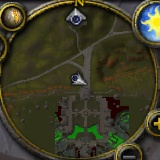
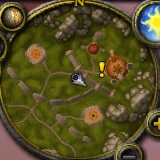
Add the automatic path finding function and save path function Optimised patrol function, from "move then run" to "move and run"...

diff --git a/move.py b/move.py
@@ -7,48 +7,53 @@ from utilities import get_delta_angle
 
 class Move:
     def __init__(self):
+        self.right_btn_is_pressed = False
         self.move_mouse_pos = (1000, 500)
         self.minimap = None
-        self.need_rotate = True
-        self.need_move = True
+        self.rotate_speed = 2
 
     def rotate_to(self):
-        if not self.need_rotate:
-            return
         self.minimap.get_target()
-        mouse.move(self.move_mouse_pos[0], self.move_mouse_pos[1])
-        mouse.press("right")
-        while True:
-            self.minimap.get_minimap()
-            self.minimap.get_orientation()
-            delta_angle = get_delta_angle(self.minimap.orientation, self.minimap.move_angle)
-            if delta_angle < 2:
+        self.minimap.get_minimap()
+        self.minimap.get_orientation()
+        delta_angle = get_delta_angle(self.minimap.orientation, self.minimap.move_angle)
+        if delta_angle < 2:
+            if self.right_btn_is_pressed:
                 mouse.release("right")
-                self.need_rotate = False
-                self.need_move = True
-                return
-            # time.sleep(1 / 120)
-            pos = mouse.get_position()
-            if self.minimap.orientation < 180 \
-                    and self.minimap.move_angle - self.minimap.orientation < 180 \
-                    and self.minimap.move_angle > self.minimap.orientation:
-                rotate_value = delta_angle / 2 + 1
-            elif 180 < self.minimap.orientation < self.minimap.move_angle:
-                rotate_value = delta_angle / 2 + 1
-            elif self.minimap.orientation > 180 and self.minimap.move_angle < self.minimap.orientation - 180:
-                rotate_value = delta_angle / 2 + 1
-            else:
-                rotate_value = -1 * delta_angle / 2 - 1
-            mouse.move(pos[0] + rotate_value, pos[1])
-
-    def go_to(self):
-        if not self.need_move:
+                self.right_btn_is_pressed = False
             return
-        self.minimap.get_target()
+
+        if not self.right_btn_is_pressed:
+            mouse.move(self.move_mouse_pos[0], self.move_mouse_pos[1])
+            mouse.press("right")
+            self.right_btn_is_pressed = True
+        pos = mouse.get_position()
+
+        # rotate to left or right
+        if self.minimap.orientation < 180 \
+                and self.minimap.move_angle - self.minimap.orientation < 180 \
+                and self.minimap.move_angle > self.minimap.orientation:
+            rotate_value = delta_angle
+        elif 180 < self.minimap.orientation < self.minimap.move_angle:
+            rotate_value = delta_angle
+        elif self.minimap.orientation > 180 and self.minimap.move_angle < self.minimap.orientation - 180:
+            rotate_value = delta_angle
+        else:
+            rotate_value = -1 * delta_angle
+
+        mouse.move(pos[0] + rotate_value * self.rotate_speed, pos[1])
+
+    def move_forward(self):
         keyboard.press("w")
-        if self.minimap.distance < 1:
-            print("arrived", self.minimap.current_path_fname)
+        if self.minimap.distance < 2:
+            # print("arrived", self.minimap.current_path_fname)
             self.minimap.load_next_path_img()
-            self.need_rotate = True
-            keyboard.release("w")
-            self.need_move = False
+
+    def stop_moving(self):
+        mouse.release("right")
+        keyboard.release("w")
+
+    def patrol(self):
+        self.minimap.get_minimap()
+        self.rotate_to()
+        self.move_forward()

diff --git a/minimap.py b/minimap.py
@@ -1,6 +1,6 @@
 import math
 
-from os import walk
+import os
 import cv2
 import numpy as np
 
@@ -9,9 +9,10 @@ from utilities import get_screenshot, vector_angle, rotate_image
 
 class MiniMap:
     def __init__(self):
+        self.distance = None
         self.current_path_fname = None
         self.path_img_list = []
-        self.record_img_index = 0
+        self.record_img_index = 1
         self.record_distance = 3
         self.path_img = None
         self.anchors = []
@@ -69,13 +70,20 @@ class MiniMap:
         self.distance = distance
 
     def record_path(self, title="path"):
+        self.get_minimap()
+        if self.path_img is None:
+            self.path_img = self.minimap_img
+            name = title + "_0"
+            self.save_img(name)
+            print("Start record")
+            return
+        self.get_target()
         if self.distance > self.record_distance:
             self.path_img = self.minimap_img
             name = title + "_" + str(self.record_img_index)
             self.save_img(name)
             print("recorded:", self.record_img_index)
             self.record_img_index += 1
-        pass
 
     def get_orientation(self):
         arrow = Arrow()
@@ -98,6 +106,8 @@ class MiniMap:
     def draw(self):
         if self.draw_minimap_img is None:
             self.draw_minimap_img = self.minimap_img.copy()
+        if self.distance is None:
+            return
         self.get_orientation()
         colors = ((255, 0, 0), (0, 255, 0), (0, 0, 255), (255, 0, 255))
 
@@ -142,12 +152,12 @@ class MiniMap:
         fname, index = fname.split("_")
         index = str(int(index) + 1)
         self.current_path_fname = fname + "_" + index + ".jpg"
-        print("loading next")
-        print(self.current_path_fname)
+        if not os.path.isfile(self.save_path + "/" + self.current_path_fname):
+            self.current_path_fname = fname + "_0.jpg"
         self.load_path_img(self.current_path_fname)
 
     def load_path_img_list(self):
-        for (dirpath, dirnames, filenames) in walk(self.save_path):
+        for (dirpath, dirnames, filenames) in os.walk(self.save_path):
             self.path_img_list.extend(filenames)
             break
 
@@ -163,8 +173,10 @@ class MiniMap:
         print("Found closest path:", self.current_path_fname)
 
     def init_path(self):
-        self.current_path_fname = "path_0.jpg"
+        # self.current_path_fname = "path_1.jpg"
+        self.find_closest_point()
         self.load_path_img(self.current_path_fname)
+
 
 class Anchor:
     def __init__(self, minimap_img):

diff --git a/main.py b/main.py
@@ -1,21 +1,22 @@
+import keyboard
+
 import move
 from minimap import MiniMap
 from utilities import set_foreground
 
 mm = MiniMap()
-
 move = move.Move()
 move.minimap = mm
-move.need_rotate = True
-# mm.find_closest_point()
 mm.init_path()
 
 if __name__ == '__main__':
     set_foreground()
     while True:
-        mm.get_minimap()
-        move.rotate_to()
-        move.go_to()
+        if keyboard.is_pressed(","):
+            move.stop_moving()
+            break
+
+        move.patrol()
 
         # mm.record_path()
 

diff --git a/utilities.py b/utilities.py
@@ -1,4 +1,5 @@
 import cv2
+import keyboard
 import numpy as np
 import win32gui
 from PIL import ImageGrab
@@ -45,6 +46,7 @@ def get_delta_angle(angle1, angle2):
         return 360 - angle
     else:
         return angle
+
 
 
 if __name__ == '__main__':
